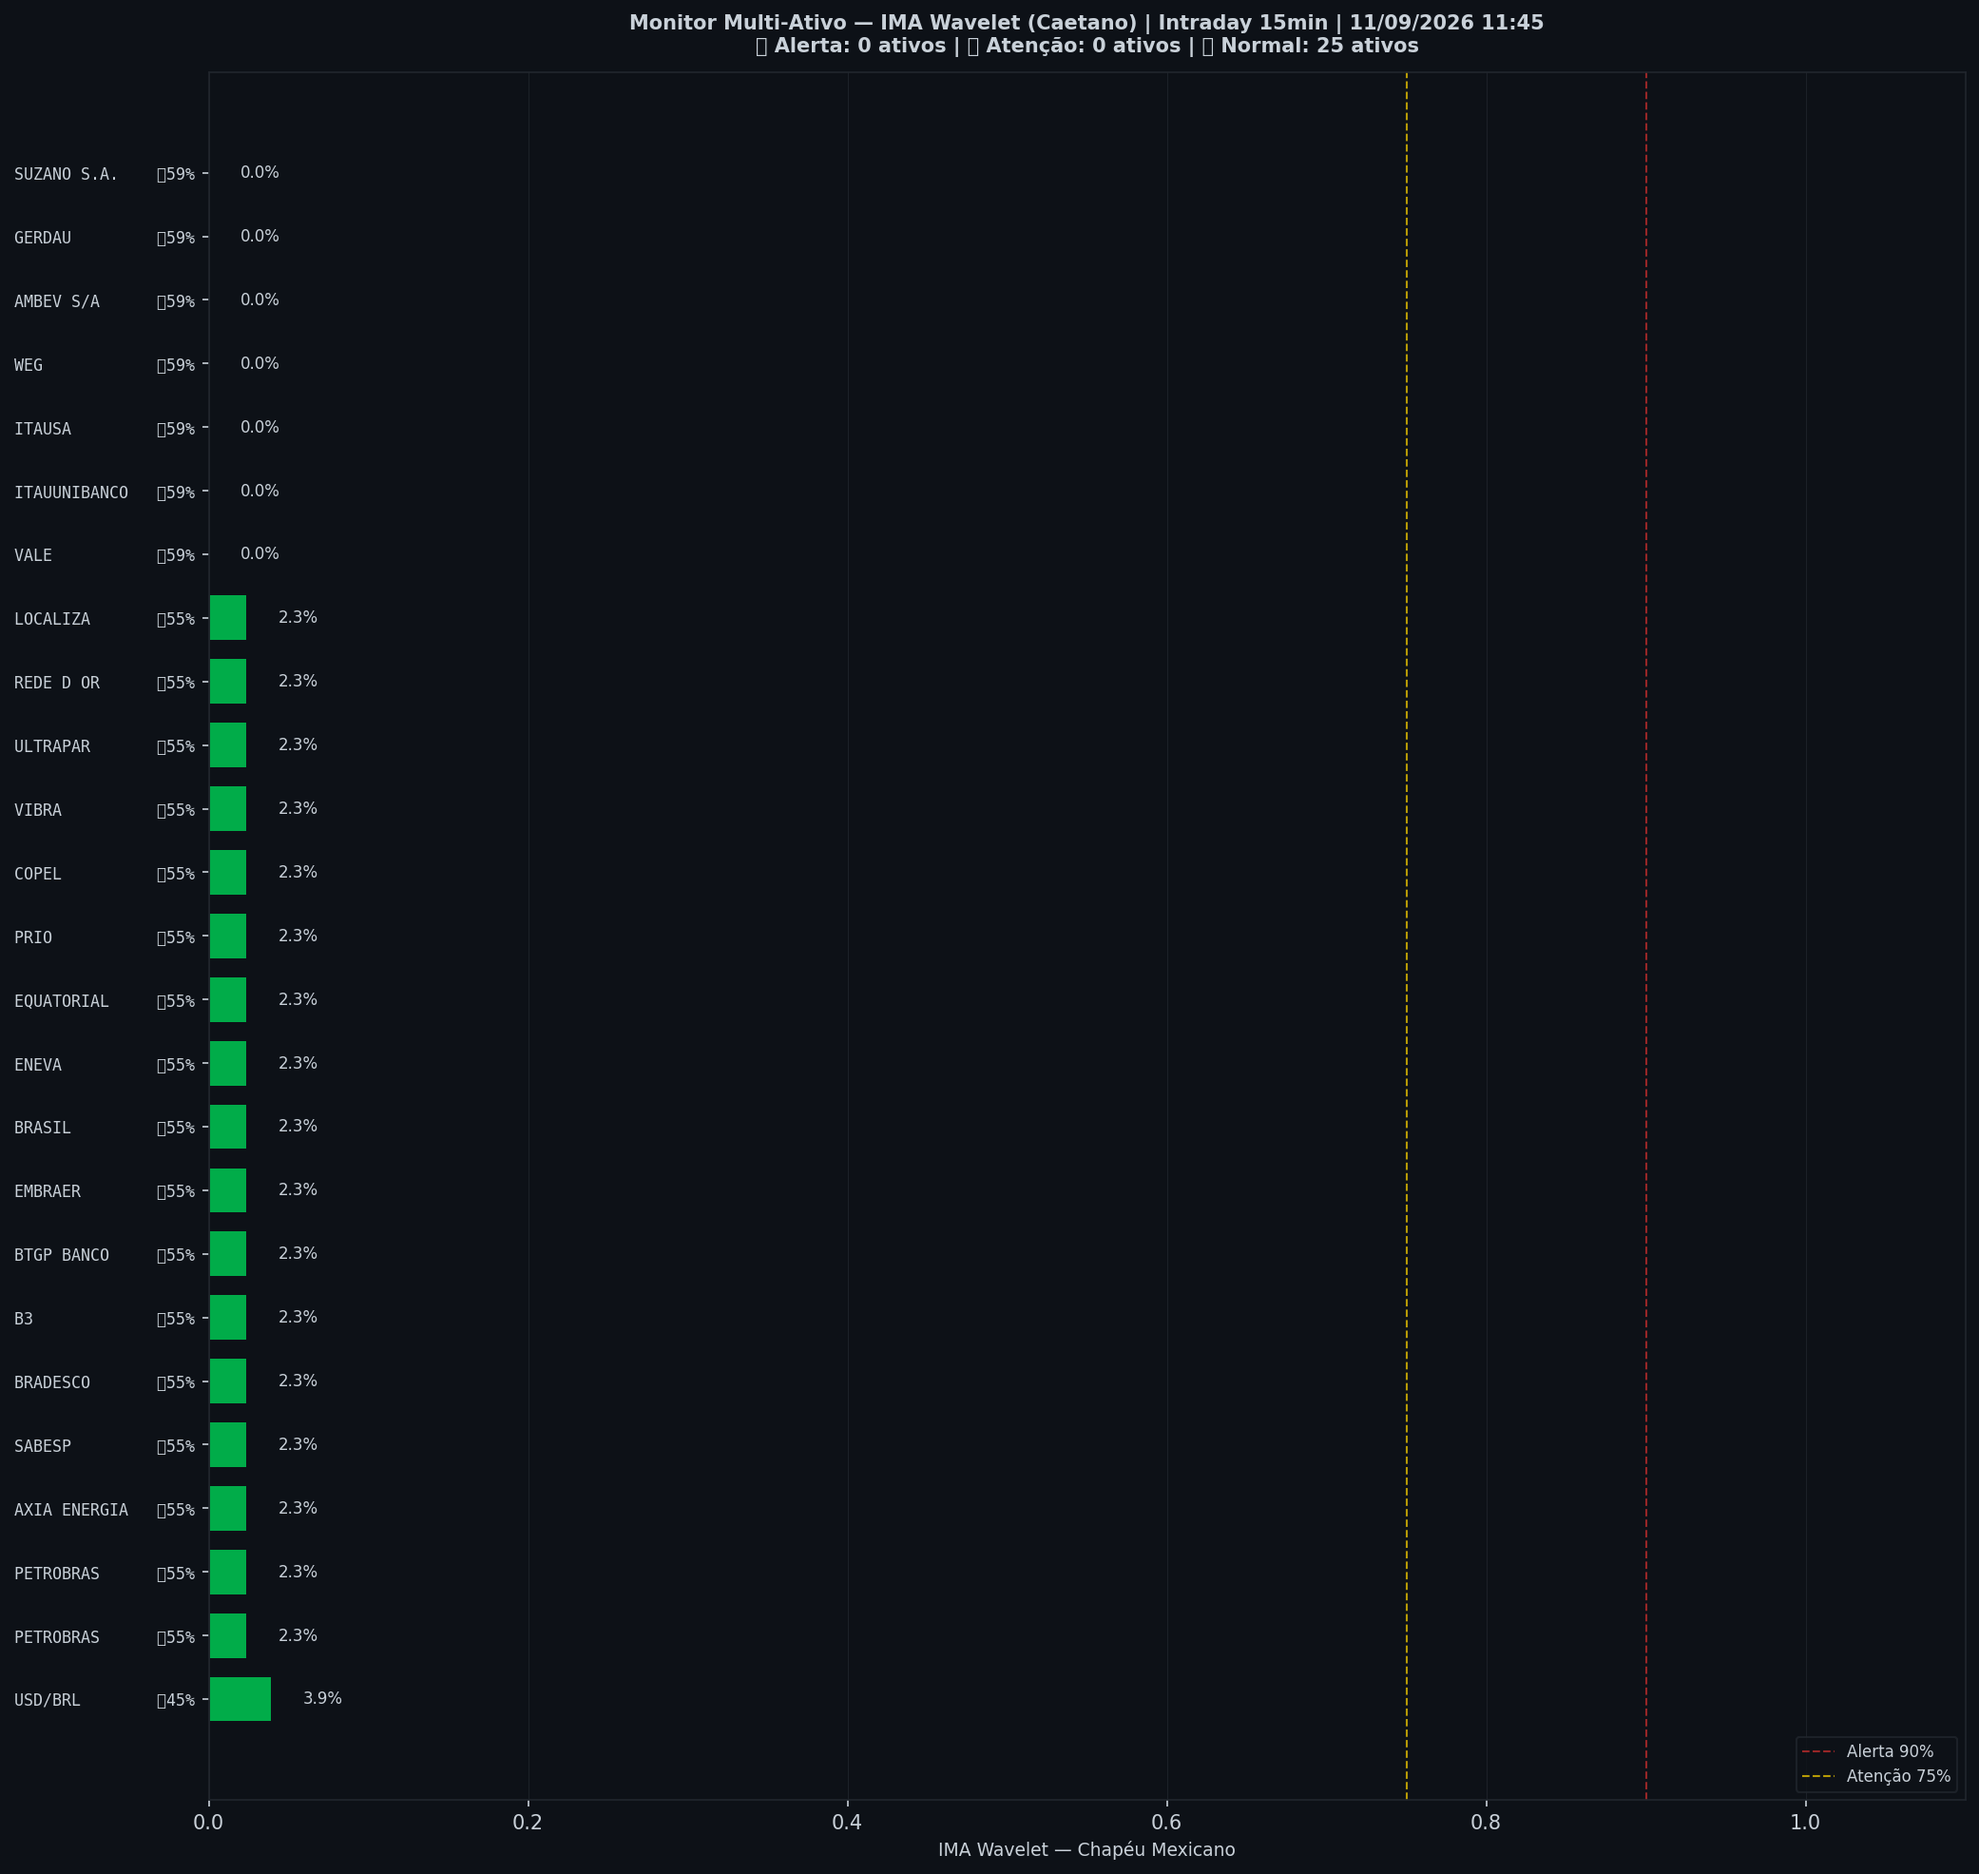
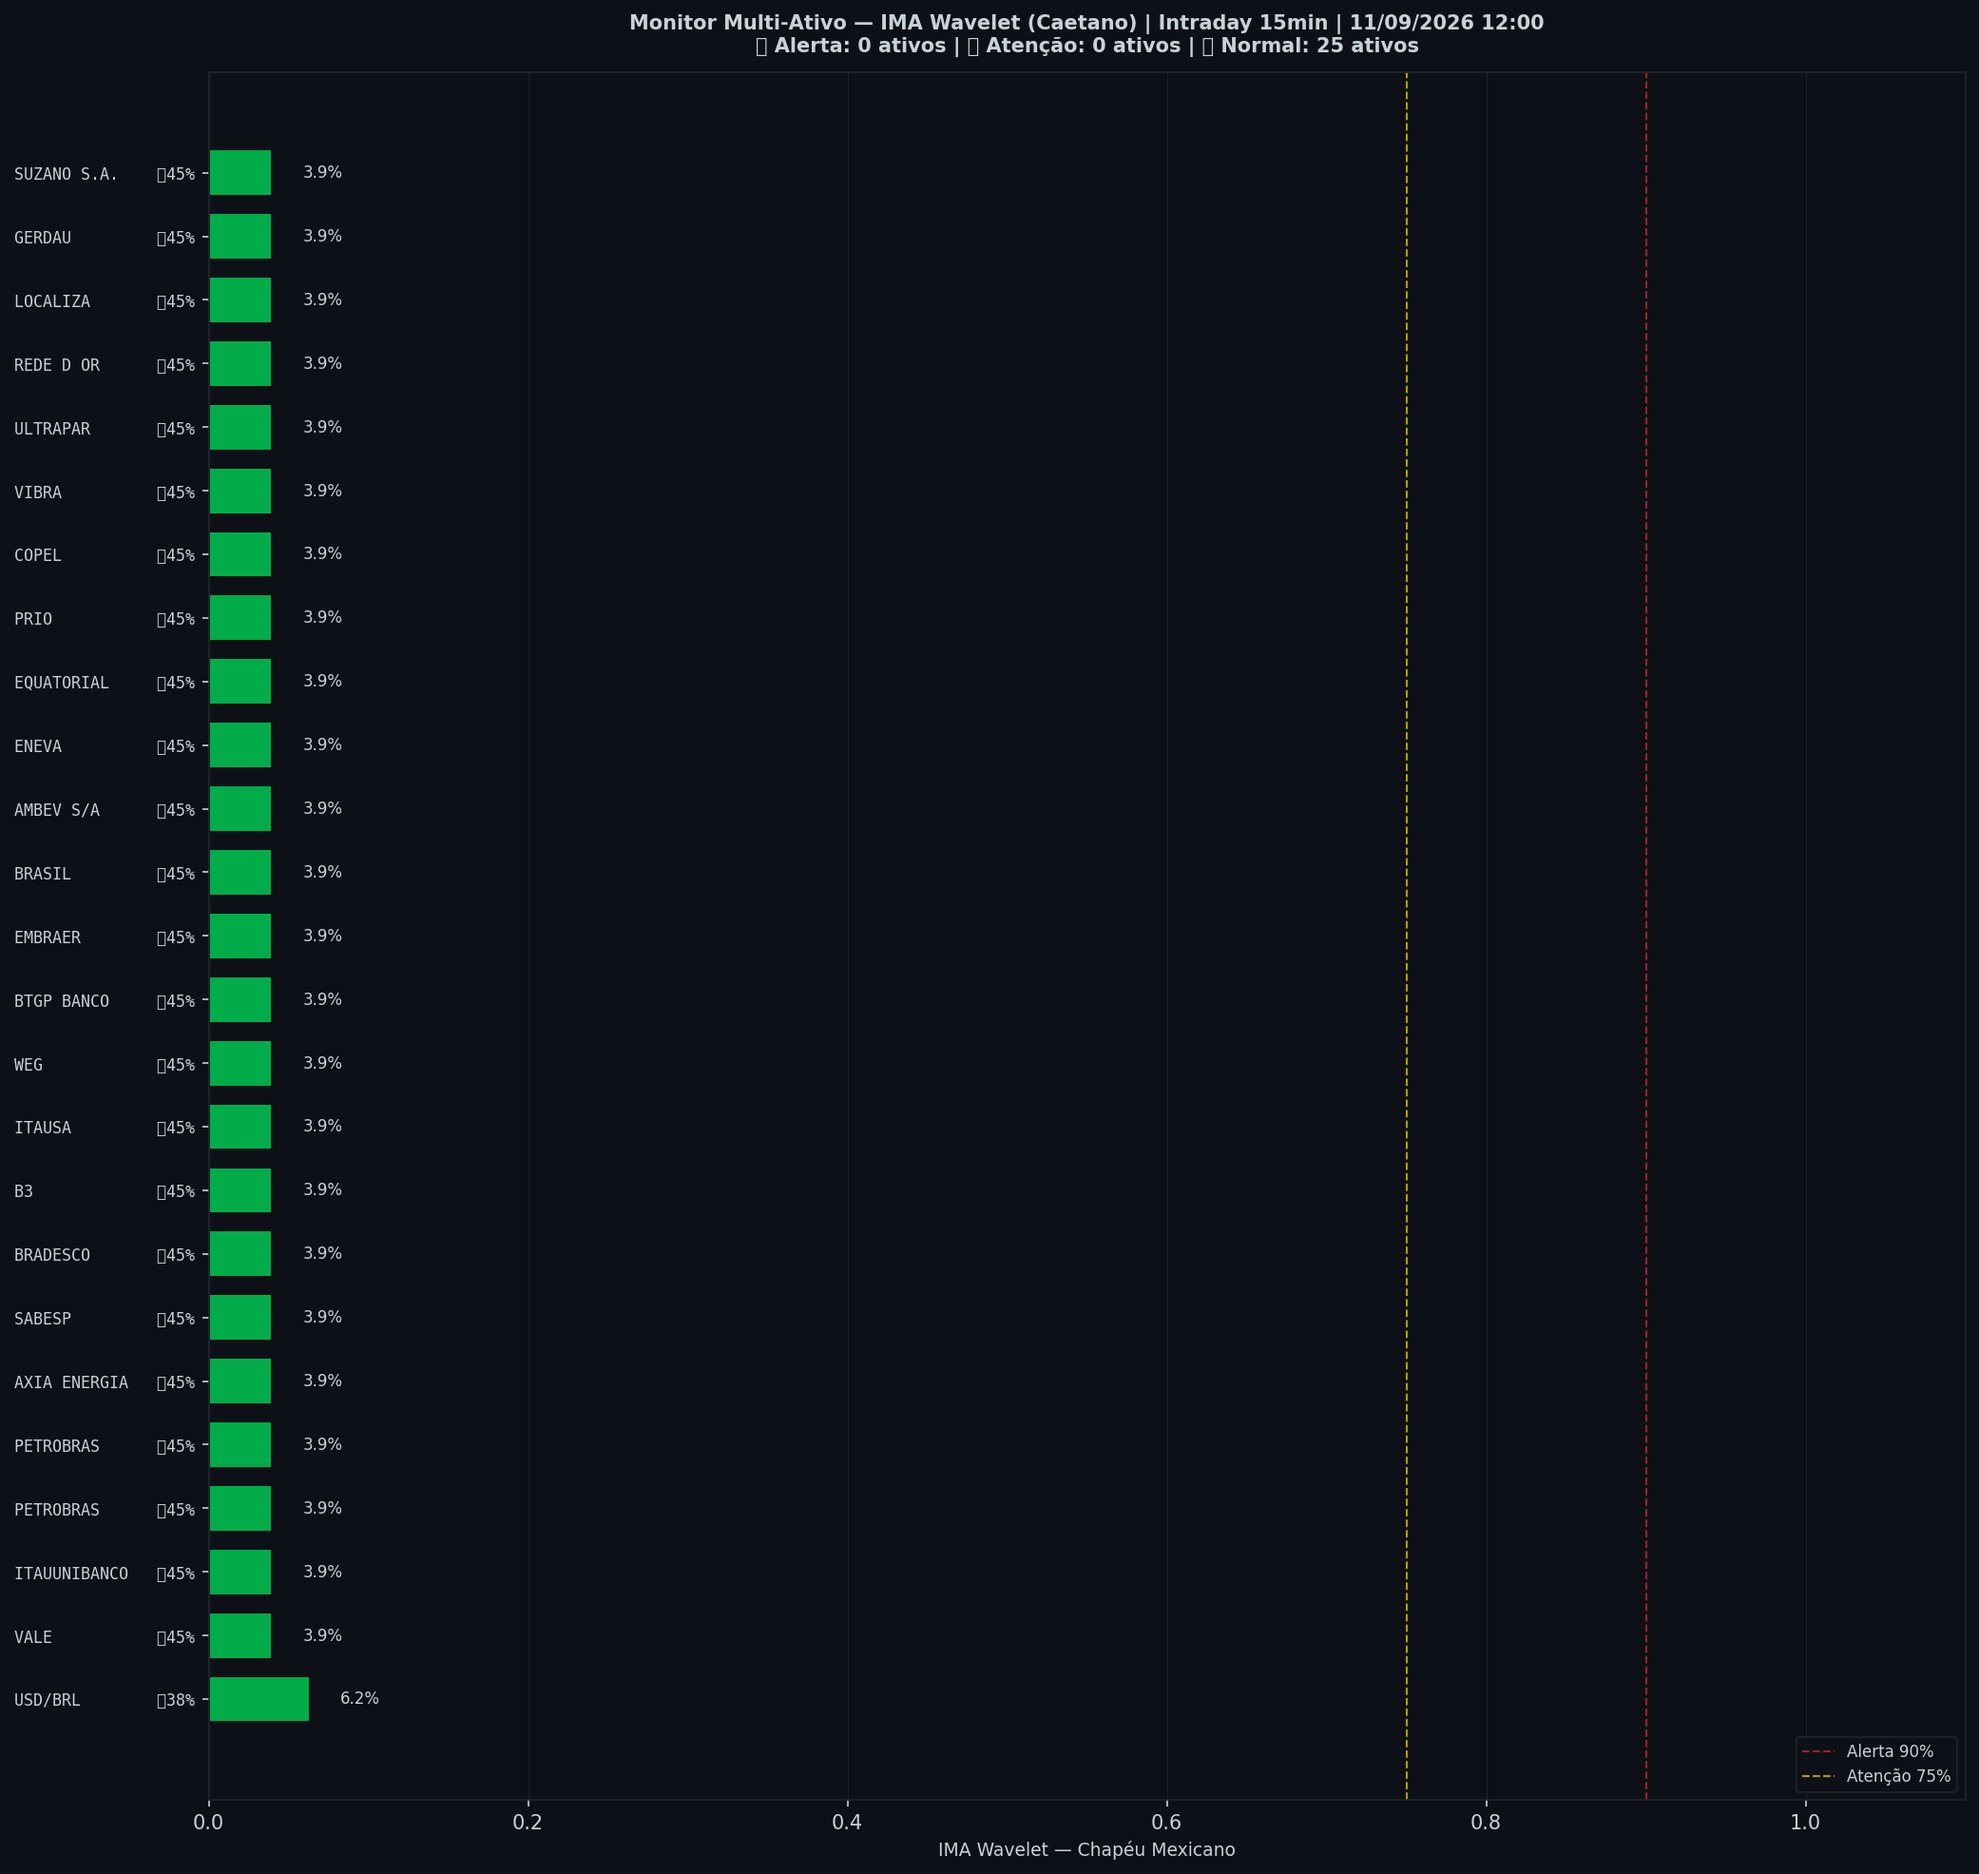
🤖 Auto: Sinal 11/09/2026 12:00

diff --git a/content/intraday/2026-09-11.md b/content/intraday/2026-09-11.md
@@ -1,5 +1,5 @@
 ---
-title: "🟢 Intraday 11/09/2026 11:00 BRT — VERDE"
+title: "🟢 Intraday 11/09/2026 11:15 BRT — VERDE"
 date: 2026-09-11
 tags: [intraday]
 ---
@@ -12,9 +12,9 @@ tags: [intraday]
 | Indicador | Valor |
 |---|---|
 | 🔴 ζ Crash — severidade da queda em curso | **0%** |
-| 🔵 ζ Entrada — estrutura de fundo | 20% |
+| 🔵 ζ Entrada — estrutura de fundo | 23% |
 | 🫧 LPPL DS-Confidence | 0% |
-| 📊 Ibovespa | 187.155 pts |
+| 📊 Ibovespa | 186.934 pts |
 
 ![Gráfico do sinal](../graficos/sinal_intraday.png)
 
@@ -22,6 +22,7 @@ tags: [intraday]
 
 | Data | Zona | Risco | IMA Crash | Entrada | LPPL |
 |---|---|---|---|---|---|
+| 2026-09-11 11:15 | 🟢 VERDE | **0%** | 0% | 23% | 0% |
 | 2026-09-11 11:00 | 🟢 VERDE | **0%** | 0% | 20% | 0% |
 | 2026-09-11 10:45 | 🟢 VERDE | **0%** | 0% | 18% | 0% |
 | 2026-09-11 10:30 | 🟢 VERDE | **1%** | 1% | 15% | 0% |
@@ -51,7 +52,6 @@ tags: [intraday]
 | 2026-09-10 11:30 | 🟢 VERDE | **0%** | 0% | 91% | 0% |
 | 2026-09-10 11:15 | 🟢 VERDE | **0%** | 0% | 95% | 0% |
 | 2026-09-10 11:00 | 🟢 VERDE | **0%** | 0% | 97% | 0% |
-| 2026-09-10 10:45 | 🟢 VERDE | **0%** | 0% | 98% | 0% |
 
 ## Monitor Multi-Ativo
 
@@ -59,35 +59,35 @@ tags: [intraday]
 
 | Zona | Ativo | Setor | IMA Crash | IMA Entrada |
 |---|---|---|---|---|
-| 🟢 | **USD/BRL** | Câmbio | 3.9% | 44.5% |
-| 🟢 | **PETROBRAS** | Petróleo | 2.3% | 54.7% |
-| 🟢 | **PETROBRAS** | Petróleo | 2.3% | 54.7% |
-| 🟢 | **AXIA ENERGIA** | Energia | 2.3% | 54.7% |
-| 🟢 | **SABESP** | Saneamento | 2.3% | 54.7% |
-| 🟢 | **BRADESCO** | Financeiro | 2.3% | 54.7% |
-| 🟢 | **B3** | Financeiro | 2.3% | 54.7% |
-| 🟢 | **BTGP BANCO** | Financeiro | 2.3% | 54.7% |
-| 🟢 | **EMBRAER** | Outros | 2.3% | 54.7% |
-| 🟢 | **BRASIL** | Financeiro | 2.3% | 54.7% |
-| 🟢 | **ENEVA** | Energia | 2.3% | 54.7% |
-| 🟢 | **EQUATORIAL** | Energia | 2.3% | 54.7% |
-| 🟢 | **PRIO** | Petróleo | 2.3% | 54.7% |
-| 🟢 | **COPEL** | Energia | 2.3% | 54.7% |
-| 🟢 | **VIBRA** | Energia | 2.3% | 54.7% |
-| 🟢 | **ULTRAPAR** | Outros | 2.3% | 54.7% |
-| 🟢 | **REDE D OR** | Saúde | 2.3% | 54.7% |
-| 🟢 | **LOCALIZA** | Aluguel | 2.3% | 54.7% |
-| 🟢 | **VALE** | Mineração | 0.0% | 59.4% |
-| 🟢 | **ITAUUNIBANCO** | Financeiro | 0.0% | 59.4% |
-| 🟢 | **ITAUSA** | Financeiro | 0.0% | 59.4% |
-| 🟢 | **WEG** | Industrial | 0.0% | 59.4% |
-| 🟢 | **AMBEV S/A** | Consumo | 0.0% | 59.4% |
-| 🟢 | **GERDAU** | Siderurgia | 0.0% | 59.4% |
-| 🟢 | **SUZANO S.A.** | Papel/Celulose | 0.0% | 59.4% |
+| 🟢 | **USD/BRL** | Câmbio | 6.2% | 37.5% |
+| 🟢 | **VALE** | Mineração | 3.9% | 44.5% |
+| 🟢 | **ITAUUNIBANCO** | Financeiro | 3.9% | 44.5% |
+| 🟢 | **PETROBRAS** | Petróleo | 3.9% | 44.5% |
+| 🟢 | **PETROBRAS** | Petróleo | 3.9% | 44.5% |
+| 🟢 | **AXIA ENERGIA** | Energia | 3.9% | 44.5% |
+| 🟢 | **SABESP** | Saneamento | 3.9% | 44.5% |
+| 🟢 | **BRADESCO** | Financeiro | 3.9% | 44.5% |
+| 🟢 | **B3** | Financeiro | 3.9% | 44.5% |
+| 🟢 | **ITAUSA** | Financeiro | 3.9% | 44.5% |
+| 🟢 | **WEG** | Industrial | 3.9% | 44.5% |
+| 🟢 | **BTGP BANCO** | Financeiro | 3.9% | 44.5% |
+| 🟢 | **EMBRAER** | Outros | 3.9% | 44.5% |
+| 🟢 | **BRASIL** | Financeiro | 3.9% | 44.5% |
+| 🟢 | **AMBEV S/A** | Consumo | 3.9% | 44.5% |
+| 🟢 | **ENEVA** | Energia | 3.9% | 44.5% |
+| 🟢 | **EQUATORIAL** | Energia | 3.9% | 44.5% |
+| 🟢 | **PRIO** | Petróleo | 3.9% | 44.5% |
+| 🟢 | **COPEL** | Energia | 3.9% | 44.5% |
+| 🟢 | **VIBRA** | Energia | 3.9% | 44.5% |
+| 🟢 | **ULTRAPAR** | Outros | 3.9% | 44.5% |
+| 🟢 | **REDE D OR** | Saúde | 3.9% | 44.5% |
+| 🟢 | **LOCALIZA** | Aluguel | 3.9% | 44.5% |
+| 🟢 | **GERDAU** | Siderurgia | 3.9% | 44.5% |
+| 🟢 | **SUZANO S.A.** | Papel/Celulose | 3.9% | 44.5% |
 
 ![Monitor multi-ativo](../graficos/multi_intraday.png)
 
-*Página atualizada em 11/09/2026 11:45 BRT (leitura da barra de 2026-09-11 11:00 BRT).*
+*Página atualizada em 11/09/2026 12:00 BRT (leitura da barra de 2026-09-11 11:15 BRT).*
 
 > [!info]- Como interpretar (clique para expandir)
 > - **ζ Crash**: fração dos coeficientes wavelet acima do corte (Caetano & Yoneyama 2009). Escala absoluta: ζ=0,90 = 90% dos coeficientes anômalos — historicamente, quedas com ζ≥0,90 foram mais fundas e mais longas. **Mede a severidade do movimento em curso, não prevê o início da queda.**

diff --git a/content/index.md b/content/index.md
@@ -8,7 +8,7 @@ tags: [home]
 
 Monitoramento diário e intraday do Ibovespa — **IMA Wavelet** (Prof. Marco Antonio Leonel Caetano, ITA/INSPER) + **LPPL DS-Confidence** (Prof. Didier Sornette, ETH-Zurich).
 
-*Última atualização: 11/09/2026 11:45 BRT · ^BVSP · Intraday 15min · v4*
+*Última atualização: 11/09/2026 12:00 BRT · ^BVSP · Intraday 15min · v4*
 
 > [!success] 🟢 **VERDE** — Risco 0% · ＝ +0 p.p. vs leitura anterior
 > `░░░░░░░░░░░░░░░░░░░░`
@@ -18,9 +18,9 @@ Monitoramento diário e intraday do Ibovespa — **IMA Wavelet** (Prof. Marco An
 | Indicador | Valor |
 |---|---|
 | 🔴 ζ Crash — severidade da queda em curso | **0%** |
-| 🔵 ζ Entrada — estrutura de fundo | 20% |
+| 🔵 ζ Entrada — estrutura de fundo | 23% |
 | 🫧 LPPL DS-Confidence | 0% |
-| 📊 Ibovespa | 187.155 pts |
+| 📊 Ibovespa | 186.934 pts |
 
 **Multi-ativo:** 0% em tensão (0🔴 0🟡 de 25 ativos)
 

diff --git a/content/historico.md b/content/historico.md
@@ -7,6 +7,7 @@ tags: [historico]
 
 | Data | Modo | Zona | Risco | IMA | LPPL |
 |---|---|---|---|---|---|
+| 2026-09-11 11:15 | intraday | 🟢 VERDE | 0% | 0% | 0% |
 | 2026-09-11 11:00 | intraday | 🟢 VERDE | 0% | 0% | 0% |
 | 2026-09-11 10:45 | intraday | 🟢 VERDE | 0% | 0% | 0% |
 | 2026-09-11 10:30 | intraday | 🟢 VERDE | 1% | 1% | 0% |
